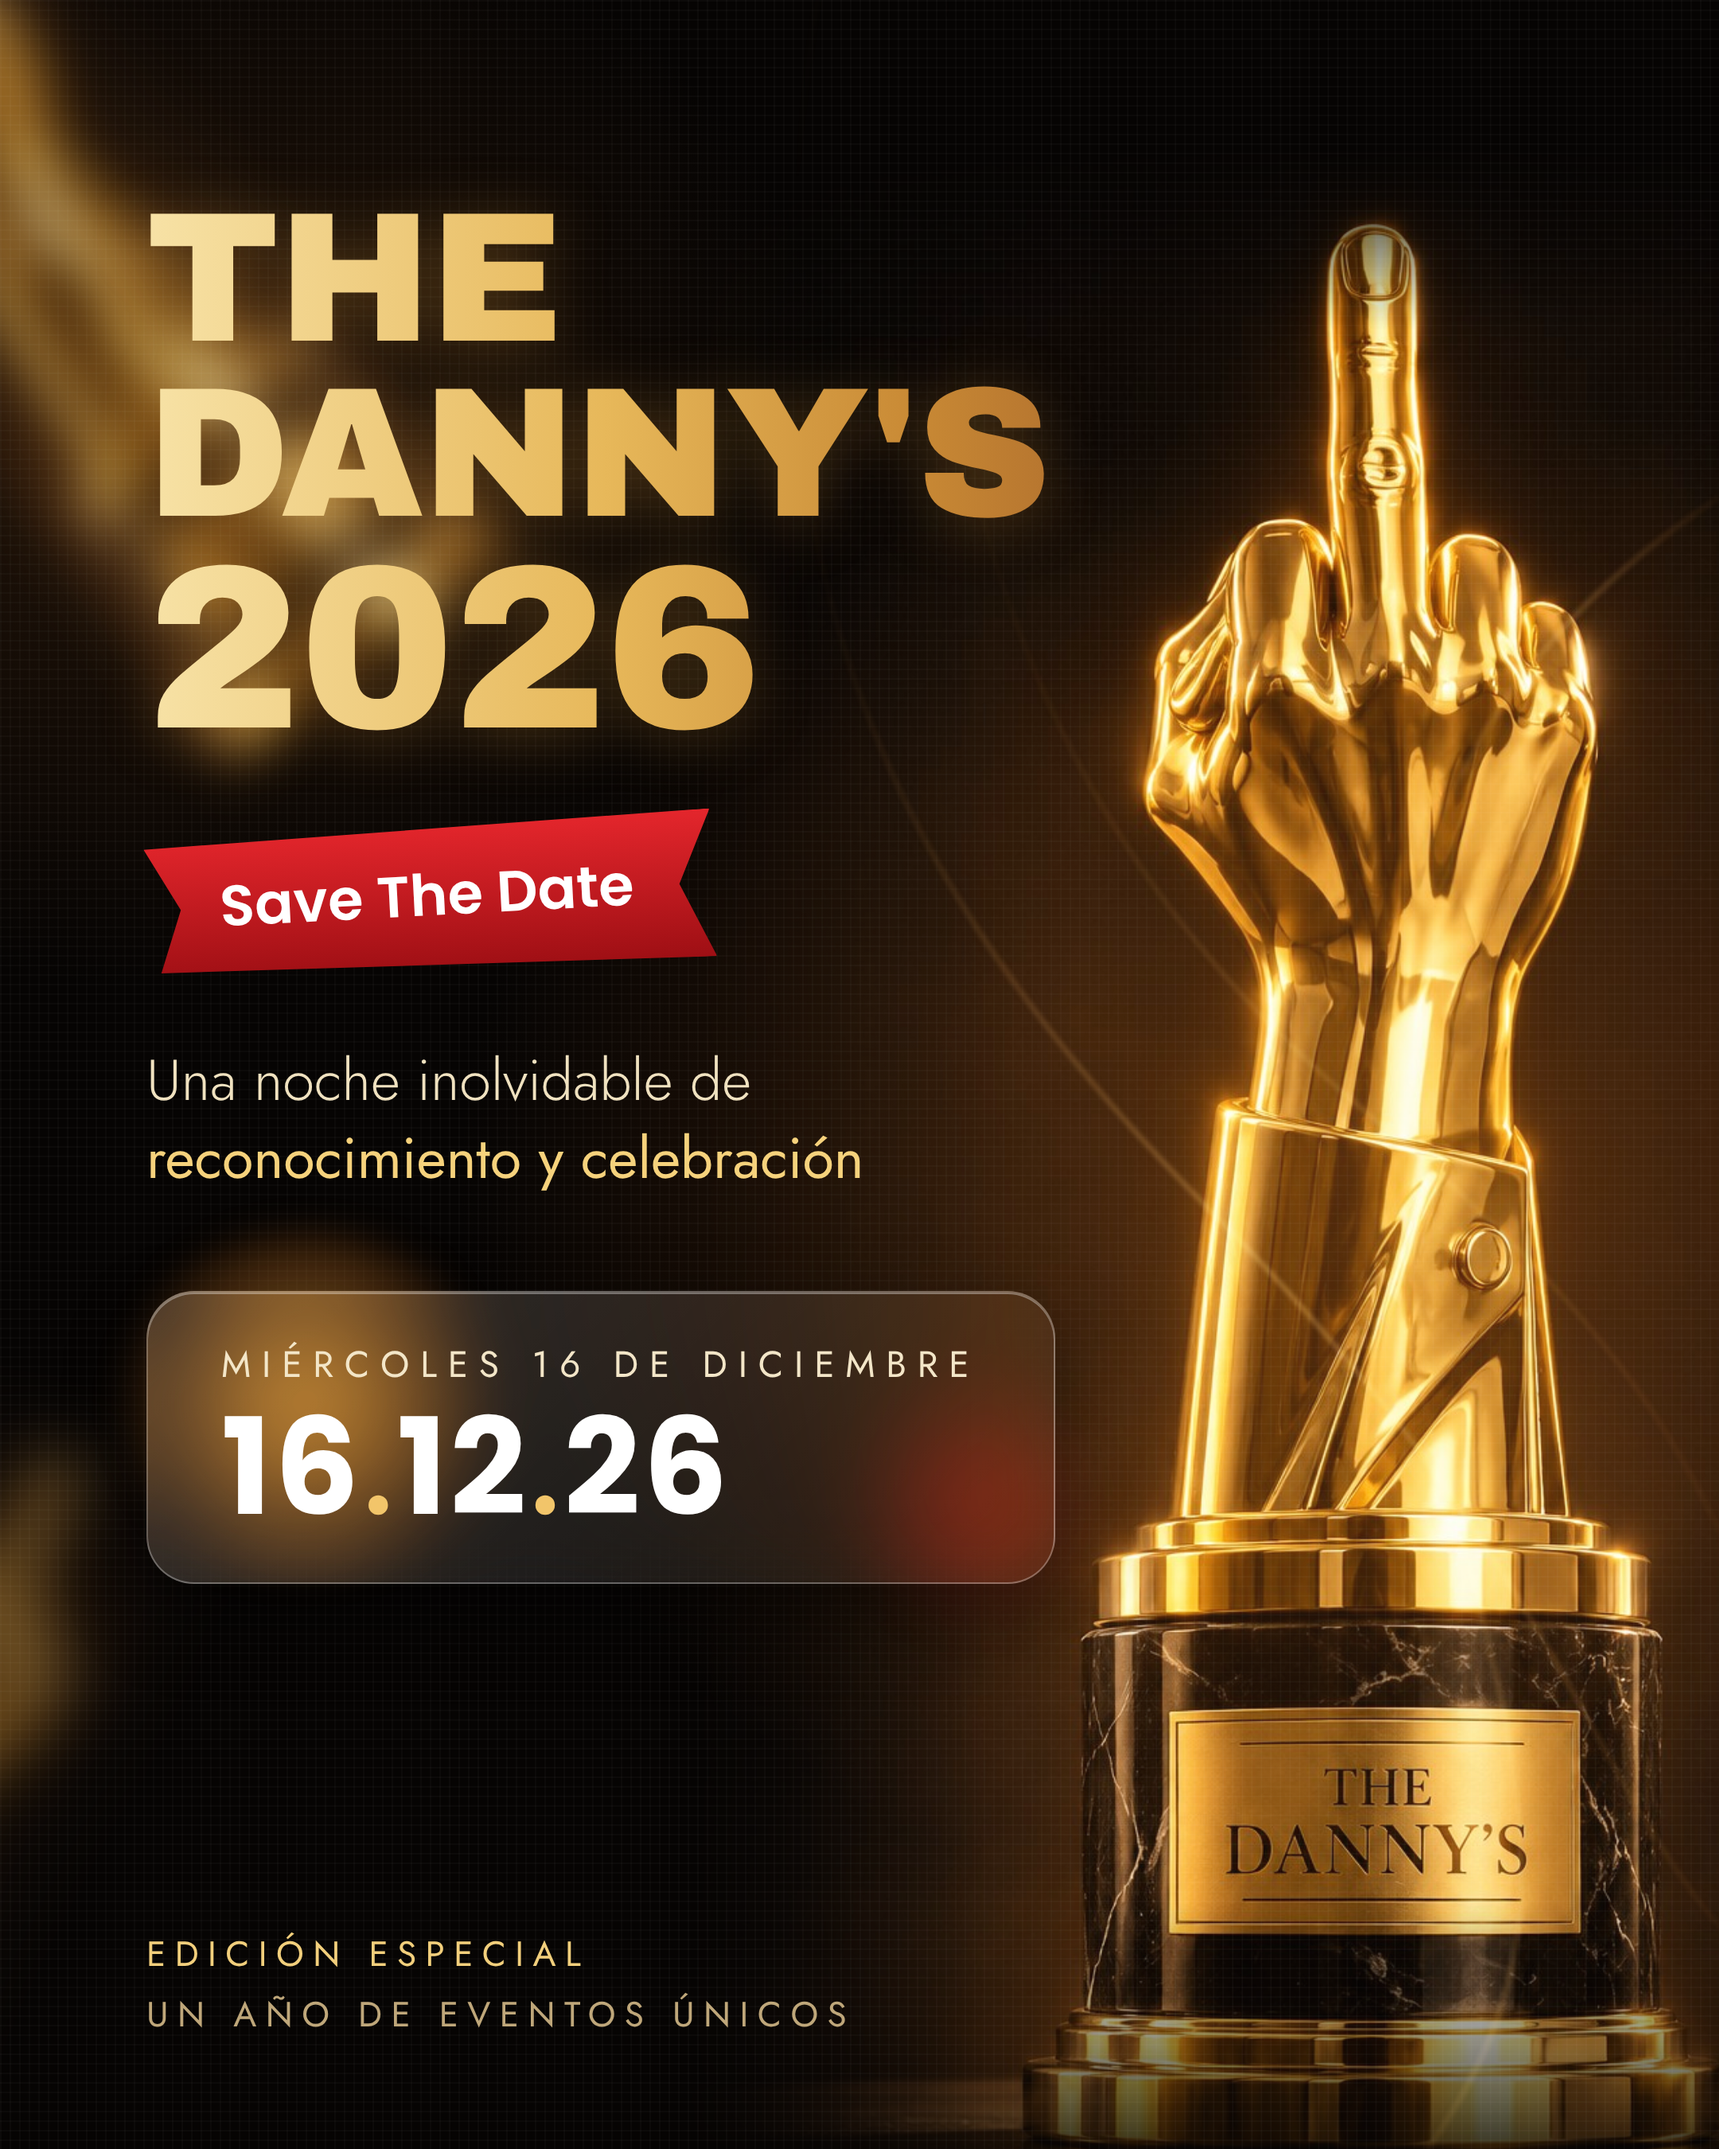
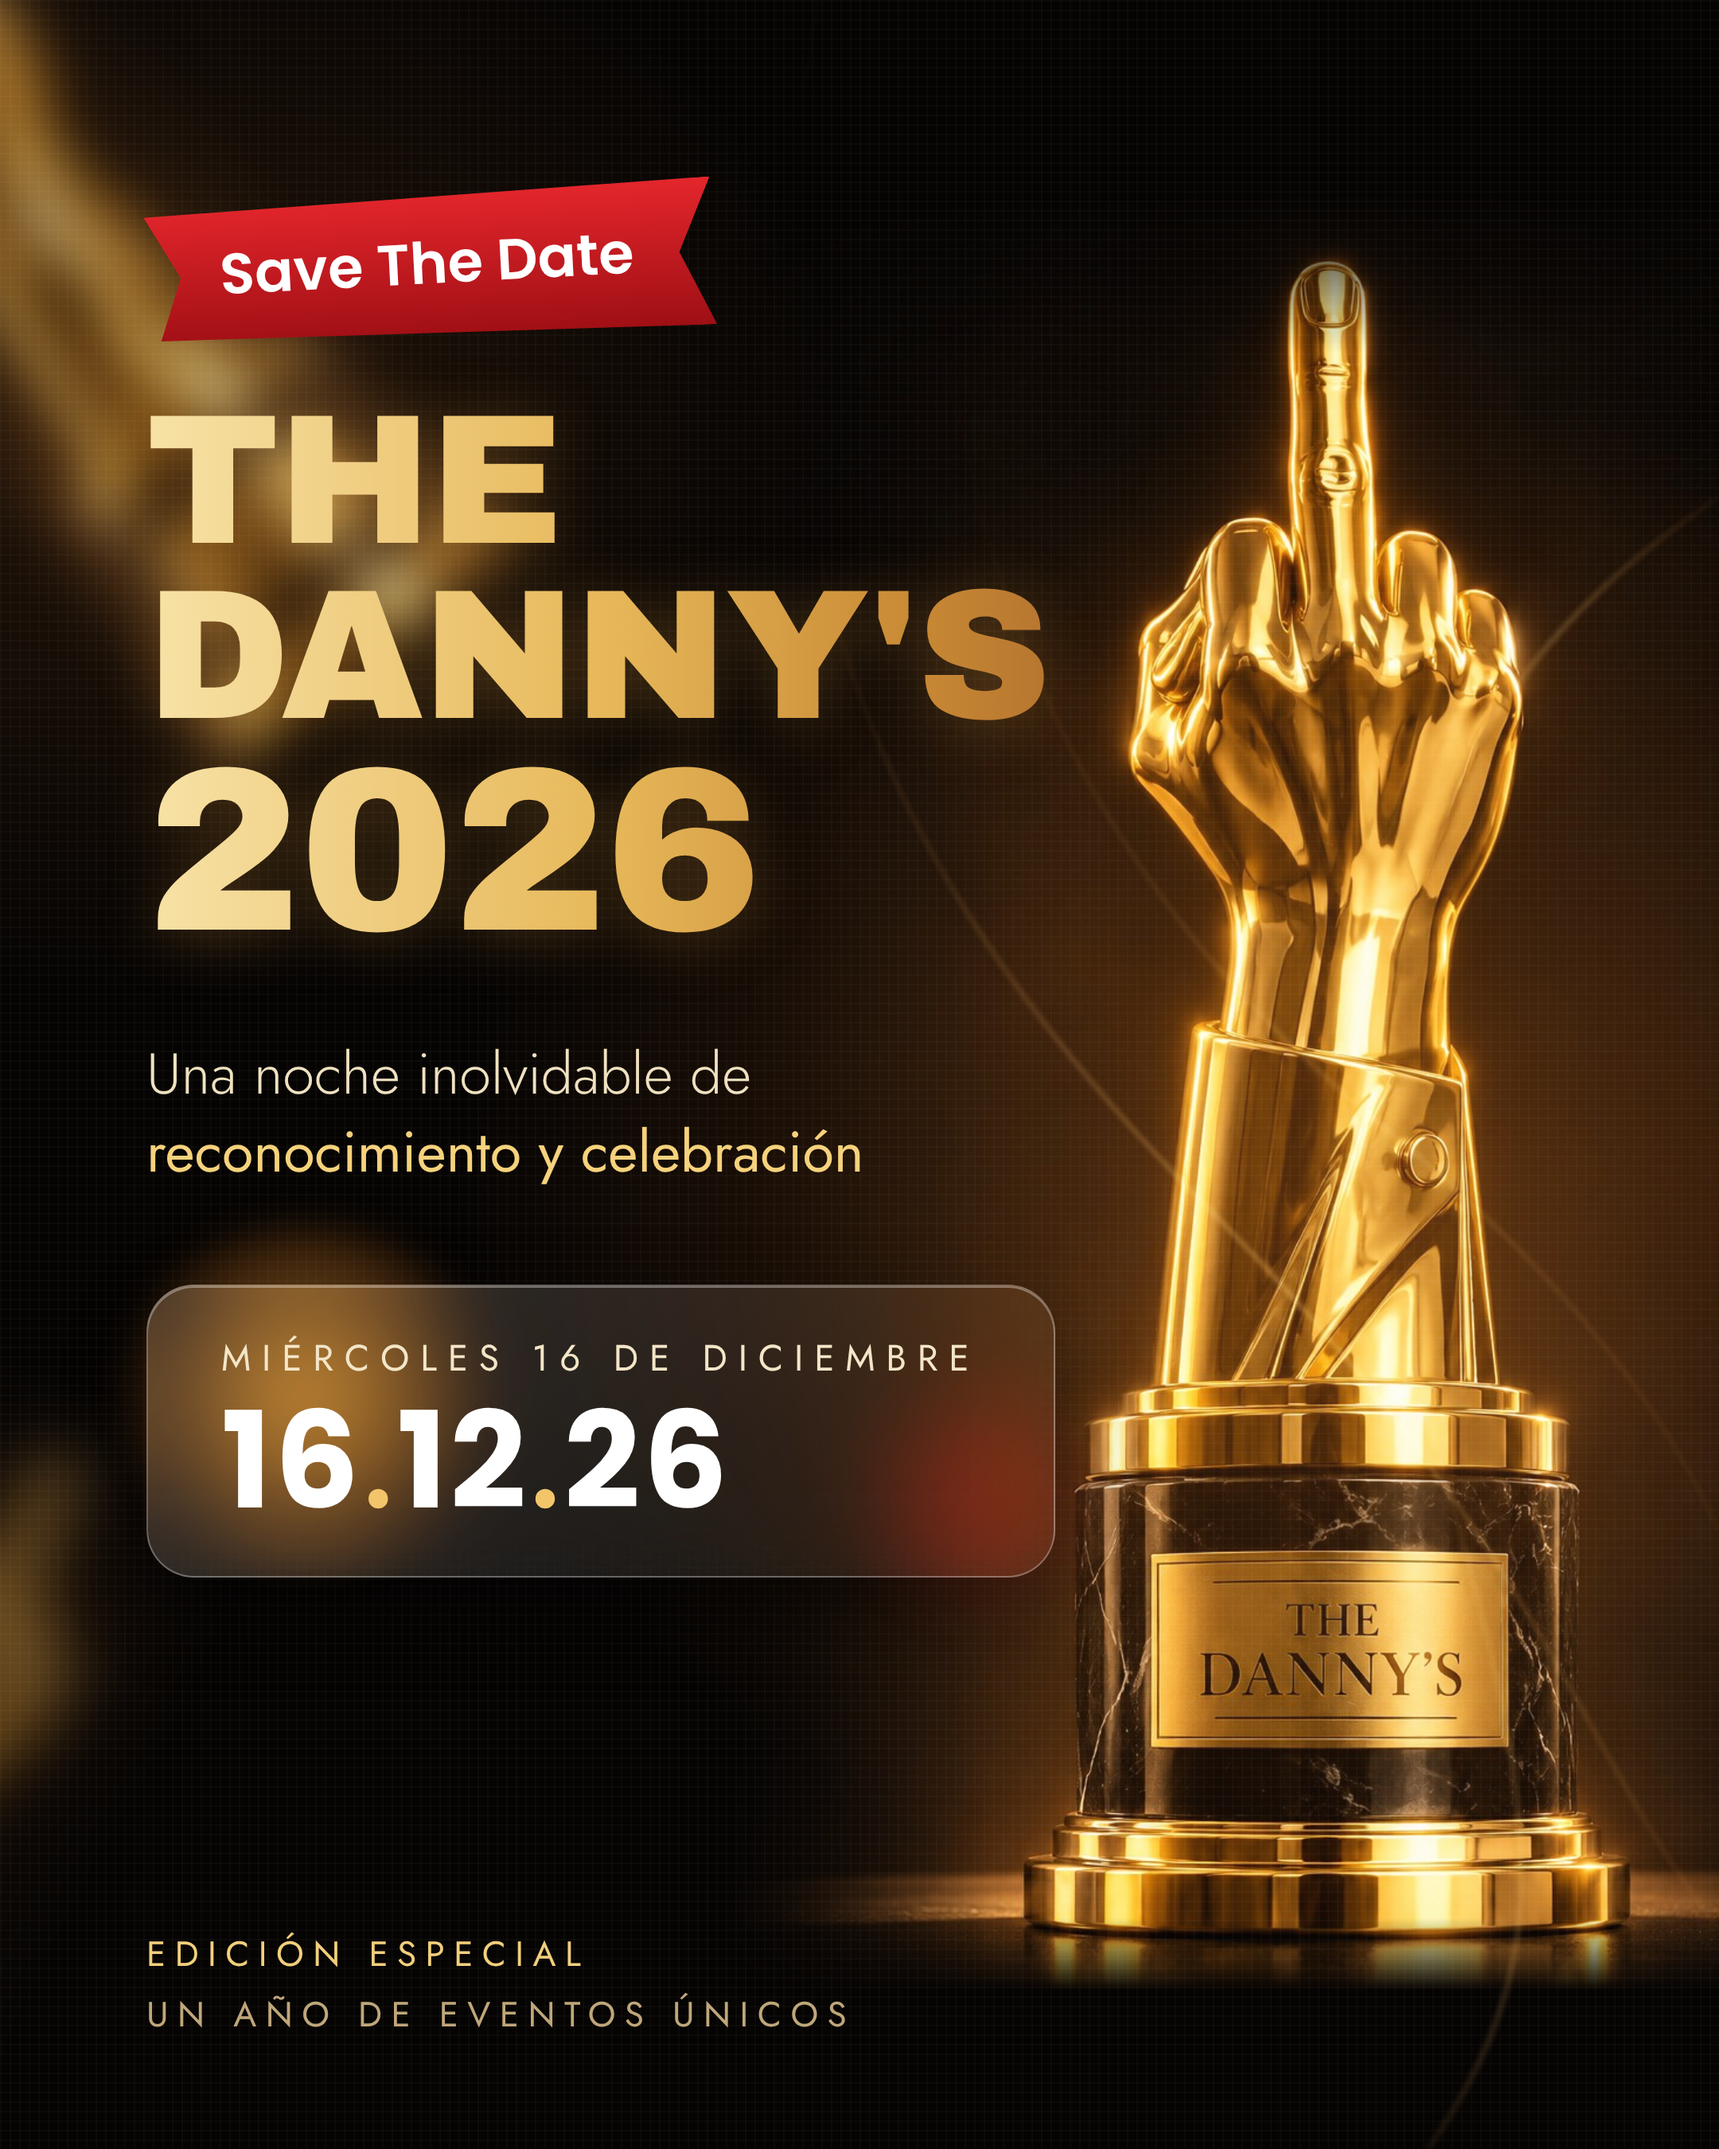
Invitaciones: Save the date arriba, trofeo completo y texto más grande en versión Oscars
Claude-Session: https://claude.ai/code/session_015PSqTBVarzJxbZCqpwc4XT

diff --git a/invitaciones/invitacion-oscars.html b/invitaciones/invitacion-oscars.html
@@ -33,21 +33,21 @@
     background:radial-gradient(ellipse 210px 420px at 50% 400px,transparent 55%,rgba(0,0,0,.7) 100%)}
   .gold{background:var(--gold);-webkit-background-clip:text;background-clip:text;color:transparent}
 
-  .logo{z-index:3;position:absolute;left:0;right:0;top:868px}
-  .logo .the{font-weight:400;font-size:34px;letter-spacing:.42em;padding-left:.42em}
+  .logo{z-index:3;position:absolute;left:0;right:0;top:838px}
+  .logo .the{font-weight:400;font-size:38px;letter-spacing:.42em;padding-left:.42em}
   .word{display:flex;justify-content:center;align-items:flex-end;margin-top:2px;
         filter:drop-shadow(0 0 22px rgba(230,170,80,.35))}
-  .word span{font-weight:200;font-size:132px;line-height:1;letter-spacing:.06em}
-  .a{position:relative;width:104px;height:116px;margin:0 6px 13px}
+  .word span{font-weight:200;font-size:146px;line-height:1;letter-spacing:.06em}
+  .a{position:relative;width:114px;height:128px;margin:0 6px 14px}
   .a svg{position:absolute;inset:0}
-  .a img{position:absolute;left:50%;bottom:0;height:72px;transform:translateX(-50%);mix-blend-mode:screen}
+  .a img{position:absolute;left:50%;bottom:0;height:80px;transform:translateX(-50%);mix-blend-mode:screen}
 
-  .info{z-index:3;position:absolute;left:0;right:0;top:1080px}
-  .kicker{font-size:19px;letter-spacing:.38em;padding-left:.38em;color:#b8915a;font-weight:400}
-  .date{margin-top:6px;font-weight:300;font-size:70px;letter-spacing:.02em;line-height:1.1}
-  .date small{font-size:54px}
-  .sub{margin-top:6px;font-size:21px;letter-spacing:.08em;color:#bf9864;font-weight:300}
-  .ed{z-index:3;position:absolute;left:0;right:0;bottom:46px;font-size:17px;letter-spacing:.34em;padding-left:.34em;color:#8f7146}
+  .info{z-index:3;position:absolute;left:0;right:0;top:1074px}
+  .kicker{font-size:22px;letter-spacing:.38em;padding-left:.38em;color:#b8915a;font-weight:400}
+  .date{margin-top:6px;font-weight:300;font-size:82px;letter-spacing:.02em;line-height:1.1}
+  .date small{font-size:62px}
+  .sub{margin-top:6px;font-size:25px;letter-spacing:.06em;color:#bf9864;font-weight:300}
+  .ed{z-index:3;position:absolute;left:0;right:0;bottom:52px;font-size:19px;letter-spacing:.34em;padding-left:.34em;color:#8f7146}
   .ed b{font-weight:500;color:#d9b278}
   .line{width:120px;height:1px;margin:18px auto 0;background:linear-gradient(90deg,transparent,#c69a5a,transparent)}
 </style>
@@ -81,7 +81,6 @@
     <div class="kicker">SAVE THE DATE · 2026</div>
     <div class="date gold">MIÉRCOLES 16 <small>DIC</small></div>
     <div class="sub">Una noche inolvidable de reconocimiento y celebración</div>
-    <div class="line"></div>
   </div>
   <div class="ed"><b>EDICIÓN ESPECIAL</b> · UN AÑO DE EVENTOS ÚNICOS</div>
 </div>

diff --git a/invitaciones/invitacion-gala.html b/invitaciones/invitacion-gala.html
@@ -30,11 +30,11 @@
   .streaks{position:absolute;inset:0;pointer-events:none;filter:blur(1.5px)}
   /* trophy */
   .trophy{
-    position:absolute;right:-215px;top:90px;height:1300px;
+    position:absolute;right:-130px;top:120px;height:1130px;
     mix-blend-mode:screen;
-    -webkit-mask-image:linear-gradient(180deg,transparent 0%,#000 9%,#000 85%,transparent 100%),linear-gradient(90deg,transparent 0%,#000 22%);
+    -webkit-mask-image:linear-gradient(180deg,transparent 0%,#000 9%,#000 96%,transparent 100%),linear-gradient(90deg,transparent 0%,#000 22%);
     -webkit-mask-composite:source-in;
-            mask-image:linear-gradient(180deg,transparent 0%,#000 9%,#000 85%,transparent 100%),linear-gradient(90deg,transparent 0%,#000 22%);
+            mask-image:linear-gradient(180deg,transparent 0%,#000 9%,#000 96%,transparent 100%),linear-gradient(90deg,transparent 0%,#000 22%);
             mask-composite:intersect;
   }
   /* blurred trophies (depth of field) */
@@ -54,7 +54,7 @@
   }
   h1 .y{font-size:146px}
   .ribbon{
-    position:relative;display:inline-block;margin-top:38px;
+    position:relative;display:inline-block;margin:0 0 34px;
     padding:18px 50px 20px 46px;
     font-weight:600;font-size:36px;color:#fff;
     background:linear-gradient(180deg,#e4262c,#9e0f14);
@@ -103,8 +103,8 @@
   <img class="trophy" src="assets/trofeo.jpg" alt="Trofeo The Danny's">
 
   <div class="content">
+      <div class="ribbon">Save The Date</div>
     <h1>THE<br>DANNY'S<br><span class="y">2026</span></h1>
-    <div class="ribbon">Save The Date</div>
     <p class="tagline">Una noche inolvidable de<br><b>reconocimiento y celebración</b></p>
     <div class="glass-wrap"><div class="glass">
       <p class="date-label">MIÉRCOLES 16 DE DICIEMBRE</p>
